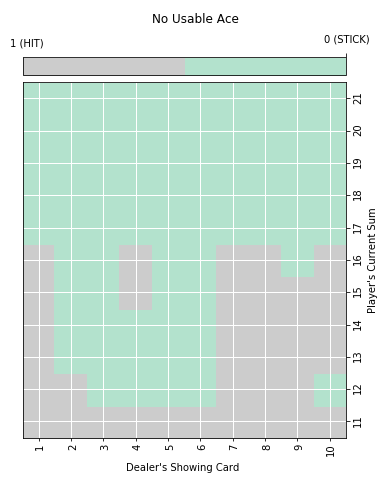
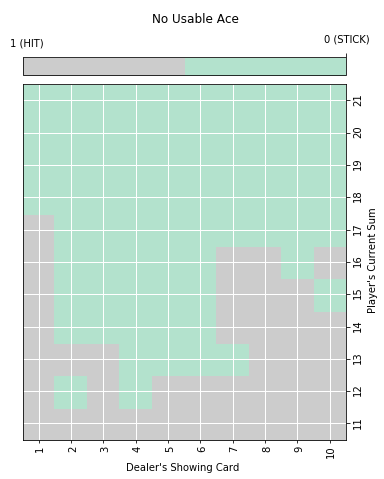
Created README, changed gamma to 0.9
1. Created README.md to guide the audience through what was done in the code

2. Changed the value of gamma from 1.0 to 0.9 in the code

diff --git a/README.md b/README.md
@@ -1,0 +1,59 @@
+# constant-α Monte Carlo Control for the game of Blackjack
+
+<img src="images/blackjack.jpg" width = 50% height = 50%>
+
+This is my own implementation of constant-α Monte Carlo Control for the game of Blackjack using Python & openAI gym's **Blackjack-v0** environment.
+openAI's main code for how the game environment works can be found [here] (https://github.com/openai/gym/blob/master/gym/envs/toy_text/blackjack.py).
+The pseudocode for constant-α Monte Carlo Control is as follows:
+
+<img src="images/pseudocode.png">
+
+
+## Repository 
+
+This repository contains:
+* **mc_control.py** : Complete code for ALL steps of the MC Control implementation
+* **plot_utils.py** : helper codes provided by Udacity's [Deep Reinforcement Learning Nanodegree github repository](https://github.com/udacity/deep-reinforcement-learning)
+                      for **(i)**obtaining state-value functions from Q and **(ii)**sophiscated plotting of the results 
+
+
+## Model Outputs
+
+At the end, MC control aims to output the following:
+
+* **1. Optimal Policy**
+* **2. Optimal Q** (action-value function table) 
+
+## List of Hyperparameters used:
+
+* alpha (content image weight) = **0.02**
+* gamma (discount rate) = **0.9**  
+* number of episodes = **500000**
+
+## Results
+
+Here are the results I obtained after executing MC Control using the above hyperparameteres:
+* State-value Functions for vs. Current Sum of Player's Cards and Dealer's Face-up Card
+<img src="images/no_usable_ace_state_values.png">
+<img src="images/usable_ace_state_values.png">
+
+Looking at the results, some observations can be made:
+* For both cases, the worst state to be in for the player is to have a sum of around 16.
+* For both cases, state-values increase linearly as the player's sum increases from 16 to 22.
+* If Player has a Usable Ace, Dealer's face-up card seems to not matter much for the state value.
+* If Player does NOT have a Usable Ace, state-values seems to fluctuate depending on Dealer's face-up card.
+For example, if Player's sum is between 16 and 22, the state-values are higher when Dealer's card ranges from 6 to 9.
+
+* Generated Optimal Policy (Hit: Draw a new card, Stick: Stop drawing a new card) 
+<img src="images/usable_ace_policy_plot.png">
+<img src="images/no_usable_ace_state_values.png">
+
+The above plots resemble the true optimal policy shown in [Reinforcement Learning Textbook](http://go.udacity.com/rl-textbook)!
+<img src="images/optimal_solution.png">
+
+## Sources
+
+I referenced Udacity's Deep Reinforcement Learning Nanodegree github repository for building & debugging the final model :
+
+* https://github.com/udacity/deep-reinforcement-learning
+
